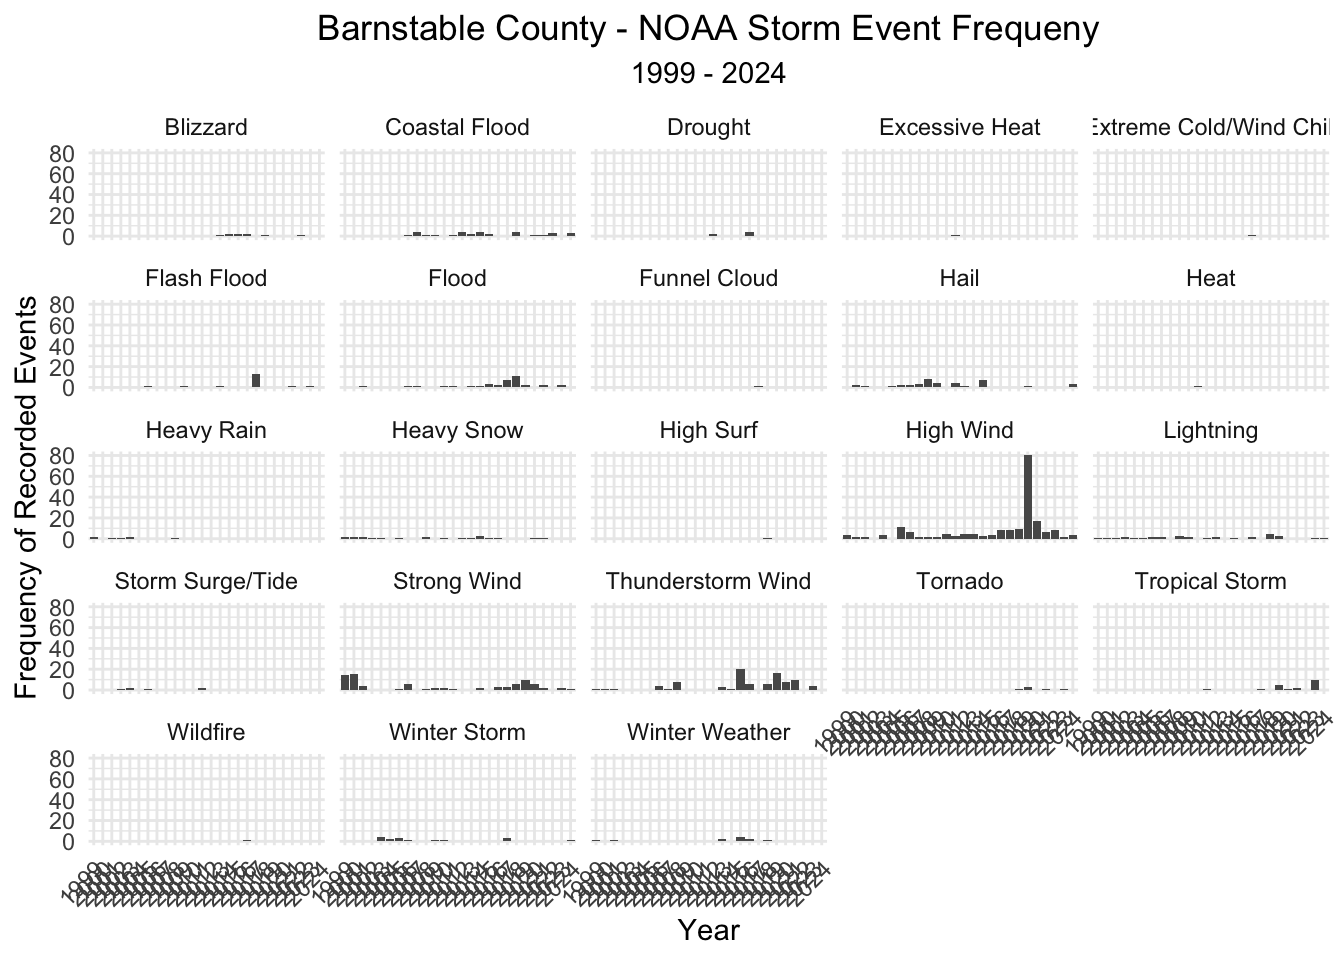
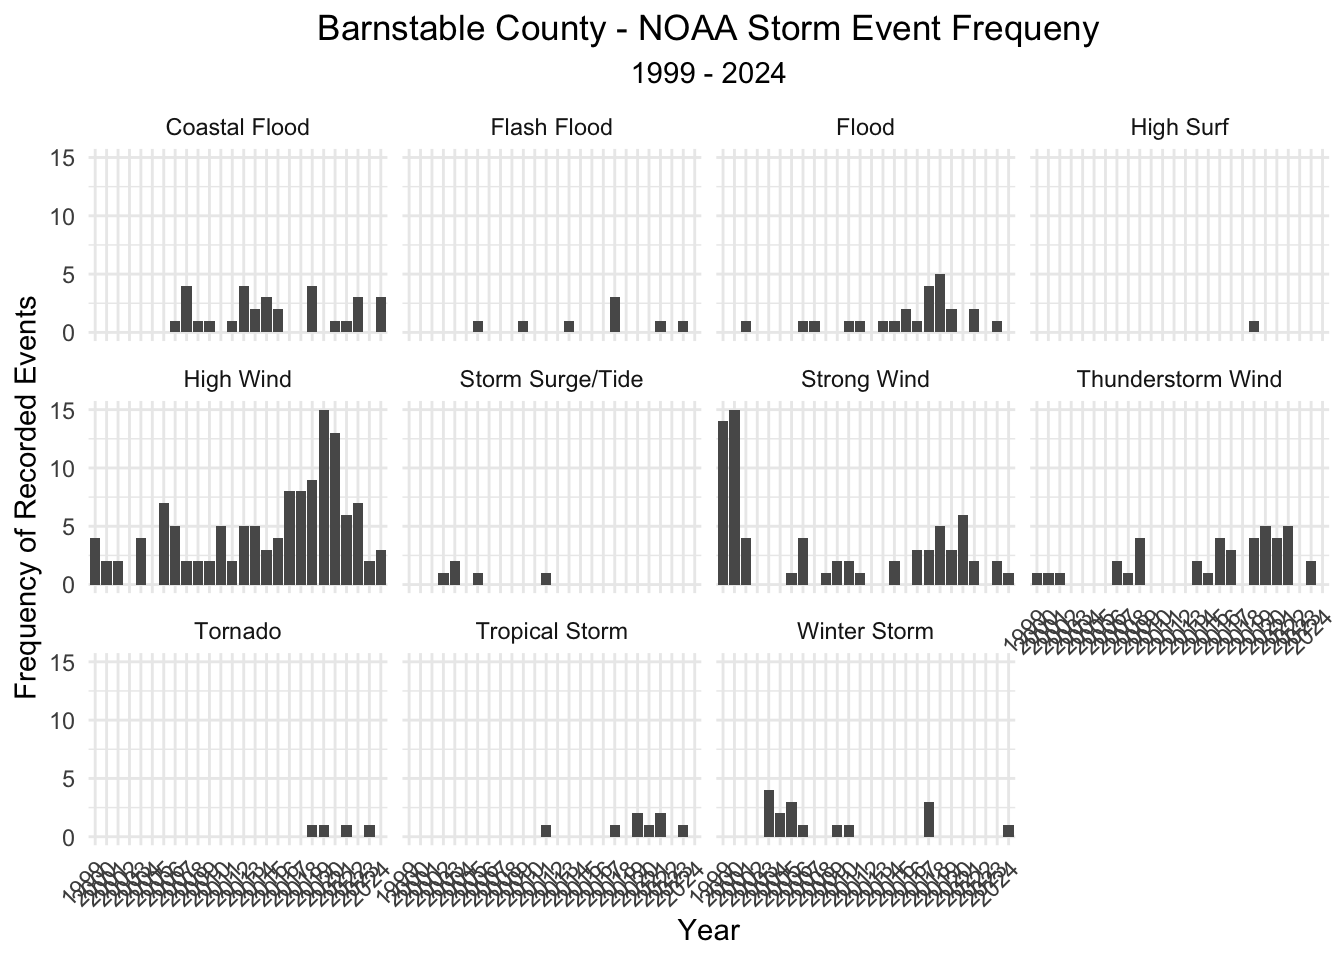
Closer look at extreme wind events

Changed region(s): [[0.0312, 0.125, 1.0, 0.9688]]

diff --git a/quarto_docs/storm_events_barnstable.html b/quarto_docs/storm_events_barnstable.html
@@ -171,22 +171,241 @@ pre > code.sourceCode > span > a:first-child::before { text-decoration: underlin
 <span id="cb4-14"><a href="#cb4-14" aria-hidden="true" tabindex="-1"></a>         <span class="at">event_type =</span> EVENT_TYPE, </span>
 <span id="cb4-15"><a href="#cb4-15" aria-hidden="true" tabindex="-1"></a>         <span class="at">magnitude =</span> MAGNITUDE</span>
 <span id="cb4-16"><a href="#cb4-16" aria-hidden="true" tabindex="-1"></a>         ) <span class="sc">|&gt;</span> </span>
-<span id="cb4-17"><a href="#cb4-17" aria-hidden="true" tabindex="-1"></a>  <span class="fu">select</span>(<span class="sc">-</span><span class="fu">c</span>(BEGIN_DATE, EVENT_TYPE, MAGNITUDE))</span>
-<span id="cb4-18"><a href="#cb4-18" aria-hidden="true" tabindex="-1"></a></span>
-<span id="cb4-19"><a href="#cb4-19" aria-hidden="true" tabindex="-1"></a><span class="co"># Plot event frequency over time</span></span>
-<span id="cb4-20"><a href="#cb4-20" aria-hidden="true" tabindex="-1"></a><span class="fu">ggplot</span>(storm_events, </span>
-<span id="cb4-21"><a href="#cb4-21" aria-hidden="true" tabindex="-1"></a>       <span class="fu">aes</span>(<span class="at">x =</span> <span class="fu">as.character</span>(year))) <span class="sc">+</span> </span>
-<span id="cb4-22"><a href="#cb4-22" aria-hidden="true" tabindex="-1"></a>  <span class="fu">geom_bar</span>() <span class="sc">+</span></span>
-<span id="cb4-23"><a href="#cb4-23" aria-hidden="true" tabindex="-1"></a>  <span class="fu">facet_wrap</span>(<span class="sc">~</span>event_type) <span class="sc">+</span></span>
-<span id="cb4-24"><a href="#cb4-24" aria-hidden="true" tabindex="-1"></a>  <span class="fu">labs</span>(<span class="at">title =</span> <span class="st">"Barnstable County - NOAA Storm Event Frequeny"</span>,</span>
-<span id="cb4-25"><a href="#cb4-25" aria-hidden="true" tabindex="-1"></a>       <span class="at">subtitle =</span> <span class="st">"1999 - 2024"</span>, </span>
-<span id="cb4-26"><a href="#cb4-26" aria-hidden="true" tabindex="-1"></a>       <span class="at">x =</span> <span class="st">"Year"</span>, </span>
-<span id="cb4-27"><a href="#cb4-27" aria-hidden="true" tabindex="-1"></a>       <span class="at">y =</span> <span class="st">"Frequency of Recorded Events"</span>)</span></code><button title="Copy to Clipboard" class="code-copy-button"><i class="bi"></i></button></pre></div>
+<span id="cb4-17"><a href="#cb4-17" aria-hidden="true" tabindex="-1"></a>  <span class="fu">select</span>(<span class="sc">-</span><span class="fu">c</span>(BEGIN_DATE, EVENT_TYPE, MAGNITUDE)) <span class="sc">|&gt;</span> </span>
+<span id="cb4-18"><a href="#cb4-18" aria-hidden="true" tabindex="-1"></a>  <span class="co"># remove irrelevant events types</span></span>
+<span id="cb4-19"><a href="#cb4-19" aria-hidden="true" tabindex="-1"></a>  <span class="fu">filter</span>(event_type <span class="sc">%in%</span> <span class="fu">c</span>(<span class="st">"Coastal Flood"</span>, <span class="st">"Flash Flood"</span>, <span class="st">"Flood"</span>, <span class="st">"High Surf"</span>, <span class="st">"High Wind"</span>,</span>
+<span id="cb4-20"><a href="#cb4-20" aria-hidden="true" tabindex="-1"></a>                           <span class="st">"Storm Surge/Tide"</span>, <span class="st">"Strong Wind"</span>, <span class="st">"Thunderstorm Wind"</span>, <span class="st">"Tornado"</span>,</span>
+<span id="cb4-21"><a href="#cb4-21" aria-hidden="true" tabindex="-1"></a>                           <span class="st">"Tropical Storm"</span>, <span class="st">"Winter Storm"</span>)) <span class="sc">|&gt;</span>   </span>
+<span id="cb4-22"><a href="#cb4-22" aria-hidden="true" tabindex="-1"></a>  <span class="co"># remove duplicates</span></span>
+<span id="cb4-23"><a href="#cb4-23" aria-hidden="true" tabindex="-1"></a>  <span class="fu">distinct</span>() <span class="sc">|&gt;</span> </span>
+<span id="cb4-24"><a href="#cb4-24" aria-hidden="true" tabindex="-1"></a>  <span class="co"># Some events appear to be recorded many times in a single day. </span></span>
+<span id="cb4-25"><a href="#cb4-25" aria-hidden="true" tabindex="-1"></a>  <span class="co"># Condense into single day, keeping maximum magnitude if applicable</span></span>
+<span id="cb4-26"><a href="#cb4-26" aria-hidden="true" tabindex="-1"></a>  <span class="fu">group_by</span>(date, year, month, day, event_type) <span class="sc">|&gt;</span> </span>
+<span id="cb4-27"><a href="#cb4-27" aria-hidden="true" tabindex="-1"></a>  <span class="fu">summarize</span>(<span class="at">magnitude_max =</span> <span class="fu">max</span>(magnitude), <span class="at">.groups =</span> <span class="st">"drop"</span>)</span>
+<span id="cb4-28"><a href="#cb4-28" aria-hidden="true" tabindex="-1"></a></span>
+<span id="cb4-29"><a href="#cb4-29" aria-hidden="true" tabindex="-1"></a><span class="co"># Plot event frequency over time</span></span>
+<span id="cb4-30"><a href="#cb4-30" aria-hidden="true" tabindex="-1"></a><span class="fu">ggplot</span>(storm_events, </span>
+<span id="cb4-31"><a href="#cb4-31" aria-hidden="true" tabindex="-1"></a>       <span class="fu">aes</span>(<span class="at">x =</span> <span class="fu">as.character</span>(year))) <span class="sc">+</span> </span>
+<span id="cb4-32"><a href="#cb4-32" aria-hidden="true" tabindex="-1"></a>  <span class="fu">geom_bar</span>() <span class="sc">+</span></span>
+<span id="cb4-33"><a href="#cb4-33" aria-hidden="true" tabindex="-1"></a>  <span class="fu">facet_wrap</span>(<span class="sc">~</span>event_type) <span class="sc">+</span></span>
+<span id="cb4-34"><a href="#cb4-34" aria-hidden="true" tabindex="-1"></a>  <span class="fu">labs</span>(<span class="at">title =</span> <span class="st">"Barnstable County - NOAA Storm Event Frequeny"</span>,</span>
+<span id="cb4-35"><a href="#cb4-35" aria-hidden="true" tabindex="-1"></a>       <span class="at">subtitle =</span> <span class="st">"1999 - 2024"</span>, </span>
+<span id="cb4-36"><a href="#cb4-36" aria-hidden="true" tabindex="-1"></a>       <span class="at">x =</span> <span class="st">"Year"</span>, </span>
+<span id="cb4-37"><a href="#cb4-37" aria-hidden="true" tabindex="-1"></a>       <span class="at">y =</span> <span class="st">"Frequency of Recorded Events"</span>)</span></code><button title="Copy to Clipboard" class="code-copy-button"><i class="bi"></i></button></pre></div>
 </details>
 <div class="cell-output-display">
 <div>
 <figure class="figure">
 <p><img src="storm_events_barnstable_files/figure-html/Load%20and%20Visualize%20NOAA%20Storm%20Events%20Data-1.png" class="img-fluid figure-img" width="672"></p>
+</figure>
+</div>
+</div>
+<details open="" class="code-fold">
+<summary>Code</summary>
+<div class="sourceCode cell-code" id="cb5"><pre class="sourceCode r code-with-copy"><code class="sourceCode r"><span id="cb5-1"><a href="#cb5-1" aria-hidden="true" tabindex="-1"></a><span class="do">### Plot max magnitude (knots) of all wind events</span></span>
+<span id="cb5-2"><a href="#cb5-2" aria-hidden="true" tabindex="-1"></a></span>
+<span id="cb5-3"><a href="#cb5-3" aria-hidden="true" tabindex="-1"></a><span class="co"># Filter only wind events</span></span>
+<span id="cb5-4"><a href="#cb5-4" aria-hidden="true" tabindex="-1"></a>wind_events <span class="ot">&lt;-</span> storm_events <span class="sc">|&gt;</span> </span>
+<span id="cb5-5"><a href="#cb5-5" aria-hidden="true" tabindex="-1"></a>  <span class="fu">filter</span>(event_type <span class="sc">%in%</span> <span class="fu">c</span>(<span class="st">"High Wind"</span>, <span class="st">"Strong Wind"</span>, <span class="st">"Thunderstorm Wind"</span>,</span>
+<span id="cb5-6"><a href="#cb5-6" aria-hidden="true" tabindex="-1"></a>                           <span class="st">"Tornado"</span>, <span class="st">"Tropical Storm"</span>, <span class="st">"Winter Storm"</span>))</span>
+<span id="cb5-7"><a href="#cb5-7" aria-hidden="true" tabindex="-1"></a></span>
+<span id="cb5-8"><a href="#cb5-8" aria-hidden="true" tabindex="-1"></a><span class="co"># Determine max</span></span>
+<span id="cb5-9"><a href="#cb5-9" aria-hidden="true" tabindex="-1"></a>max_mag <span class="ot">&lt;-</span> <span class="fu">max</span>(wind_events<span class="sc">$</span>magnitude_max, <span class="at">na.rm =</span> <span class="cn">TRUE</span>)</span>
+<span id="cb5-10"><a href="#cb5-10" aria-hidden="true" tabindex="-1"></a></span>
+<span id="cb5-11"><a href="#cb5-11" aria-hidden="true" tabindex="-1"></a><span class="cf">for</span> (yr <span class="cf">in</span> <span class="fu">unique</span>(wind_events<span class="sc">$</span>year)) {</span>
+<span id="cb5-12"><a href="#cb5-12" aria-hidden="true" tabindex="-1"></a>  data_year <span class="ot">&lt;-</span> <span class="fu">filter</span>(wind_events, year <span class="sc">==</span> yr)</span>
+<span id="cb5-13"><a href="#cb5-13" aria-hidden="true" tabindex="-1"></a>  </span>
+<span id="cb5-14"><a href="#cb5-14" aria-hidden="true" tabindex="-1"></a>  <span class="co"># Skip if all magnitudes are NA</span></span>
+<span id="cb5-15"><a href="#cb5-15" aria-hidden="true" tabindex="-1"></a>  <span class="cf">if</span> (<span class="fu">all</span>(<span class="fu">is.na</span>(data_year<span class="sc">$</span>magnitude_max))) <span class="cf">next</span></span>
+<span id="cb5-16"><a href="#cb5-16" aria-hidden="true" tabindex="-1"></a>  </span>
+<span id="cb5-17"><a href="#cb5-17" aria-hidden="true" tabindex="-1"></a>  start_date <span class="ot">&lt;-</span> <span class="fu">as.Date</span>(<span class="fu">paste0</span>(yr, <span class="st">"-01-01"</span>))</span>
+<span id="cb5-18"><a href="#cb5-18" aria-hidden="true" tabindex="-1"></a>  end_date <span class="ot">&lt;-</span> <span class="fu">as.Date</span>(<span class="fu">paste0</span>(yr, <span class="st">"-12-31"</span>))</span>
+<span id="cb5-19"><a href="#cb5-19" aria-hidden="true" tabindex="-1"></a>  </span>
+<span id="cb5-20"><a href="#cb5-20" aria-hidden="true" tabindex="-1"></a>  p <span class="ot">&lt;-</span> <span class="fu">ggplot</span>(data_year,</span>
+<span id="cb5-21"><a href="#cb5-21" aria-hidden="true" tabindex="-1"></a>              <span class="fu">aes</span>(<span class="at">x =</span> date, <span class="at">y =</span> magnitude_max, <span class="at">fill =</span> event_type)) <span class="sc">+</span></span>
+<span id="cb5-22"><a href="#cb5-22" aria-hidden="true" tabindex="-1"></a>    <span class="fu">geom_col</span>(<span class="at">width =</span> <span class="fl">0.8</span>) <span class="sc">+</span>  <span class="co"># Set consistent bar thickness</span></span>
+<span id="cb5-23"><a href="#cb5-23" aria-hidden="true" tabindex="-1"></a>    <span class="fu">scale_x_date</span>(</span>
+<span id="cb5-24"><a href="#cb5-24" aria-hidden="true" tabindex="-1"></a>      <span class="at">limits =</span> <span class="fu">c</span>(start_date, end_date),</span>
+<span id="cb5-25"><a href="#cb5-25" aria-hidden="true" tabindex="-1"></a>      <span class="at">breaks =</span> <span class="fu">seq</span>(start_date, end_date, <span class="at">by =</span> <span class="st">"1 month"</span>),</span>
+<span id="cb5-26"><a href="#cb5-26" aria-hidden="true" tabindex="-1"></a>      <span class="at">date_labels =</span> <span class="st">"%b"</span></span>
+<span id="cb5-27"><a href="#cb5-27" aria-hidden="true" tabindex="-1"></a>    ) <span class="sc">+</span></span>
+<span id="cb5-28"><a href="#cb5-28" aria-hidden="true" tabindex="-1"></a>    <span class="fu">scale_y_continuous</span>(<span class="at">limits =</span> <span class="fu">c</span>(<span class="dv">0</span>, max_mag)) <span class="sc">+</span></span>
+<span id="cb5-29"><a href="#cb5-29" aria-hidden="true" tabindex="-1"></a>    <span class="fu">labs</span>(</span>
+<span id="cb5-30"><a href="#cb5-30" aria-hidden="true" tabindex="-1"></a>      <span class="at">title =</span> <span class="fu">paste</span>(<span class="st">"Wind Events in"</span>, yr),</span>
+<span id="cb5-31"><a href="#cb5-31" aria-hidden="true" tabindex="-1"></a>      <span class="at">x =</span> <span class="st">"Date"</span>,</span>
+<span id="cb5-32"><a href="#cb5-32" aria-hidden="true" tabindex="-1"></a>      <span class="at">y =</span> <span class="st">"Max Magnitude (knots)"</span>,</span>
+<span id="cb5-33"><a href="#cb5-33" aria-hidden="true" tabindex="-1"></a>      <span class="at">fill =</span> <span class="st">"Event Type"</span></span>
+<span id="cb5-34"><a href="#cb5-34" aria-hidden="true" tabindex="-1"></a>    ) <span class="sc">+</span></span>
+<span id="cb5-35"><a href="#cb5-35" aria-hidden="true" tabindex="-1"></a>    <span class="fu">theme</span>(<span class="at">axis.text.x =</span> <span class="fu">element_text</span>(<span class="at">angle =</span> <span class="dv">45</span>, <span class="at">hjust =</span> <span class="dv">1</span>))</span>
+<span id="cb5-36"><a href="#cb5-36" aria-hidden="true" tabindex="-1"></a>  </span>
+<span id="cb5-37"><a href="#cb5-37" aria-hidden="true" tabindex="-1"></a>  <span class="fu">print</span>(p)</span>
+<span id="cb5-38"><a href="#cb5-38" aria-hidden="true" tabindex="-1"></a>}</span></code><button title="Copy to Clipboard" class="code-copy-button"><i class="bi"></i></button></pre></div>
+</details>
+<div class="cell-output-display">
+<div>
+<figure class="figure">
+<p><img src="storm_events_barnstable_files/figure-html/Load%20and%20Visualize%20NOAA%20Storm%20Events%20Data-2.png" class="img-fluid figure-img" width="672"></p>
+</figure>
+</div>
+</div>
+<div class="cell-output-display">
+<div>
+<figure class="figure">
+<p><img src="storm_events_barnstable_files/figure-html/Load%20and%20Visualize%20NOAA%20Storm%20Events%20Data-3.png" class="img-fluid figure-img" width="672"></p>
+</figure>
+</div>
+</div>
+<div class="cell-output-display">
+<div>
+<figure class="figure">
+<p><img src="storm_events_barnstable_files/figure-html/Load%20and%20Visualize%20NOAA%20Storm%20Events%20Data-4.png" class="img-fluid figure-img" width="672"></p>
+</figure>
+</div>
+</div>
+<div class="cell-output-display">
+<div>
+<figure class="figure">
+<p><img src="storm_events_barnstable_files/figure-html/Load%20and%20Visualize%20NOAA%20Storm%20Events%20Data-5.png" class="img-fluid figure-img" width="672"></p>
+</figure>
+</div>
+</div>
+<div class="cell-output-display">
+<div>
+<figure class="figure">
+<p><img src="storm_events_barnstable_files/figure-html/Load%20and%20Visualize%20NOAA%20Storm%20Events%20Data-6.png" class="img-fluid figure-img" width="672"></p>
+</figure>
+</div>
+</div>
+<div class="cell-output-display">
+<div>
+<figure class="figure">
+<p><img src="storm_events_barnstable_files/figure-html/Load%20and%20Visualize%20NOAA%20Storm%20Events%20Data-7.png" class="img-fluid figure-img" width="672"></p>
+</figure>
+</div>
+</div>
+<div class="cell-output-display">
+<div>
+<figure class="figure">
+<p><img src="storm_events_barnstable_files/figure-html/Load%20and%20Visualize%20NOAA%20Storm%20Events%20Data-8.png" class="img-fluid figure-img" width="672"></p>
+</figure>
+</div>
+</div>
+<div class="cell-output-display">
+<div>
+<figure class="figure">
+<p><img src="storm_events_barnstable_files/figure-html/Load%20and%20Visualize%20NOAA%20Storm%20Events%20Data-9.png" class="img-fluid figure-img" width="672"></p>
+</figure>
+</div>
+</div>
+<div class="cell-output-display">
+<div>
+<figure class="figure">
+<p><img src="storm_events_barnstable_files/figure-html/Load%20and%20Visualize%20NOAA%20Storm%20Events%20Data-10.png" class="img-fluid figure-img" width="672"></p>
+</figure>
+</div>
+</div>
+<div class="cell-output-display">
+<div>
+<figure class="figure">
+<p><img src="storm_events_barnstable_files/figure-html/Load%20and%20Visualize%20NOAA%20Storm%20Events%20Data-11.png" class="img-fluid figure-img" width="672"></p>
+</figure>
+</div>
+</div>
+<div class="cell-output-display">
+<div>
+<figure class="figure">
+<p><img src="storm_events_barnstable_files/figure-html/Load%20and%20Visualize%20NOAA%20Storm%20Events%20Data-12.png" class="img-fluid figure-img" width="672"></p>
+</figure>
+</div>
+</div>
+<div class="cell-output-display">
+<div>
+<figure class="figure">
+<p><img src="storm_events_barnstable_files/figure-html/Load%20and%20Visualize%20NOAA%20Storm%20Events%20Data-13.png" class="img-fluid figure-img" width="672"></p>
+</figure>
+</div>
+</div>
+<div class="cell-output-display">
+<div>
+<figure class="figure">
+<p><img src="storm_events_barnstable_files/figure-html/Load%20and%20Visualize%20NOAA%20Storm%20Events%20Data-14.png" class="img-fluid figure-img" width="672"></p>
+</figure>
+</div>
+</div>
+<div class="cell-output-display">
+<div>
+<figure class="figure">
+<p><img src="storm_events_barnstable_files/figure-html/Load%20and%20Visualize%20NOAA%20Storm%20Events%20Data-15.png" class="img-fluid figure-img" width="672"></p>
+</figure>
+</div>
+</div>
+<div class="cell-output-display">
+<div>
+<figure class="figure">
+<p><img src="storm_events_barnstable_files/figure-html/Load%20and%20Visualize%20NOAA%20Storm%20Events%20Data-16.png" class="img-fluid figure-img" width="672"></p>
+</figure>
+</div>
+</div>
+<div class="cell-output-display">
+<div>
+<figure class="figure">
+<p><img src="storm_events_barnstable_files/figure-html/Load%20and%20Visualize%20NOAA%20Storm%20Events%20Data-17.png" class="img-fluid figure-img" width="672"></p>
+</figure>
+</div>
+</div>
+<div class="cell-output-display">
+<div>
+<figure class="figure">
+<p><img src="storm_events_barnstable_files/figure-html/Load%20and%20Visualize%20NOAA%20Storm%20Events%20Data-18.png" class="img-fluid figure-img" width="672"></p>
+</figure>
+</div>
+</div>
+<div class="cell-output-display">
+<div>
+<figure class="figure">
+<p><img src="storm_events_barnstable_files/figure-html/Load%20and%20Visualize%20NOAA%20Storm%20Events%20Data-19.png" class="img-fluid figure-img" width="672"></p>
+</figure>
+</div>
+</div>
+<div class="cell-output-display">
+<div>
+<figure class="figure">
+<p><img src="storm_events_barnstable_files/figure-html/Load%20and%20Visualize%20NOAA%20Storm%20Events%20Data-20.png" class="img-fluid figure-img" width="672"></p>
+</figure>
+</div>
+</div>
+<div class="cell-output-display">
+<div>
+<figure class="figure">
+<p><img src="storm_events_barnstable_files/figure-html/Load%20and%20Visualize%20NOAA%20Storm%20Events%20Data-21.png" class="img-fluid figure-img" width="672"></p>
+</figure>
+</div>
+</div>
+<div class="cell-output-display">
+<div>
+<figure class="figure">
+<p><img src="storm_events_barnstable_files/figure-html/Load%20and%20Visualize%20NOAA%20Storm%20Events%20Data-22.png" class="img-fluid figure-img" width="672"></p>
+</figure>
+</div>
+</div>
+<div class="cell-output-display">
+<div>
+<figure class="figure">
+<p><img src="storm_events_barnstable_files/figure-html/Load%20and%20Visualize%20NOAA%20Storm%20Events%20Data-23.png" class="img-fluid figure-img" width="672"></p>
+</figure>
+</div>
+</div>
+<div class="cell-output-display">
+<div>
+<figure class="figure">
+<p><img src="storm_events_barnstable_files/figure-html/Load%20and%20Visualize%20NOAA%20Storm%20Events%20Data-24.png" class="img-fluid figure-img" width="672"></p>
+</figure>
+</div>
+</div>
+<div class="cell-output-display">
+<div>
+<figure class="figure">
+<p><img src="storm_events_barnstable_files/figure-html/Load%20and%20Visualize%20NOAA%20Storm%20Events%20Data-25.png" class="img-fluid figure-img" width="672"></p>
 </figure>
 </div>
 </div>
